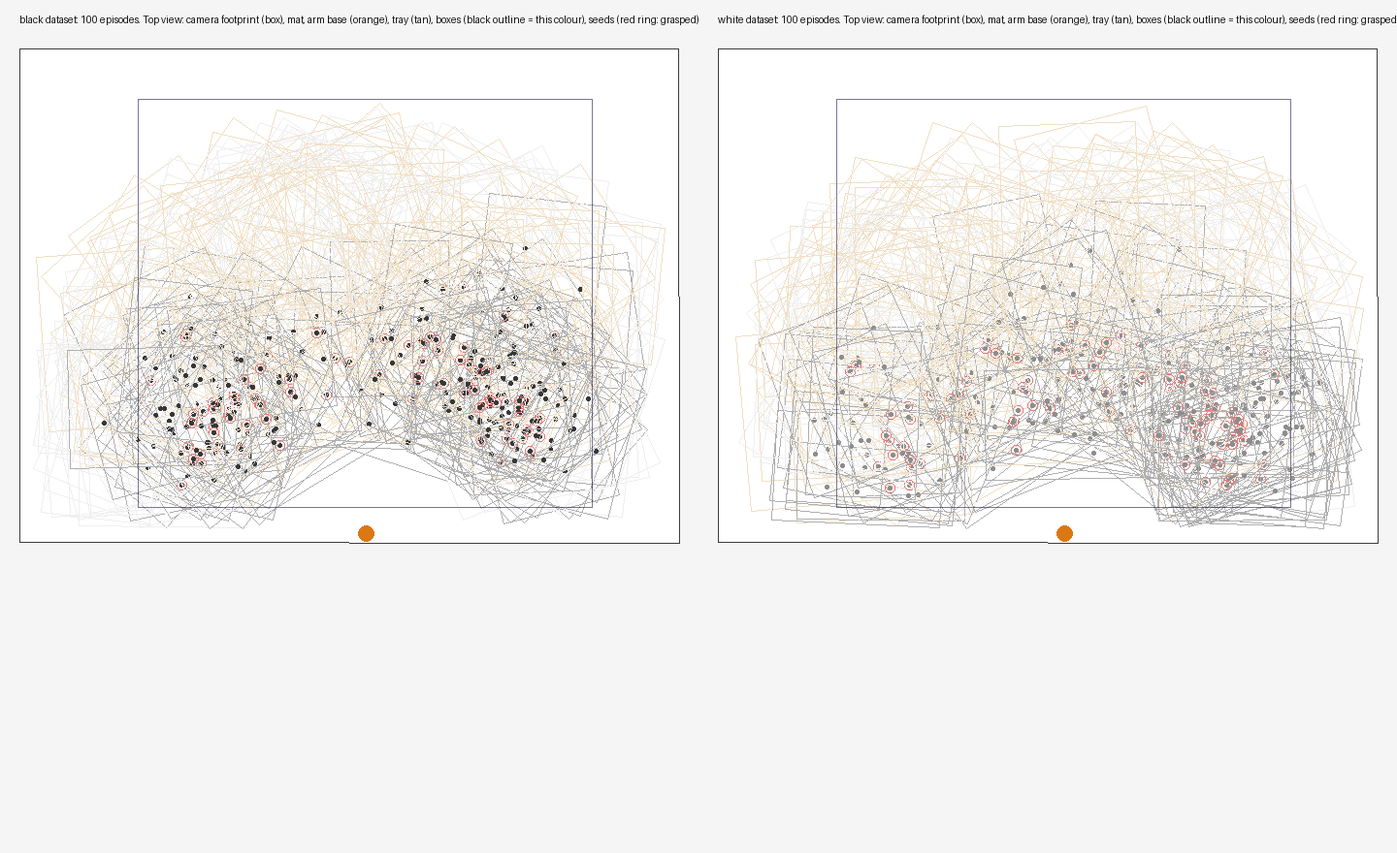
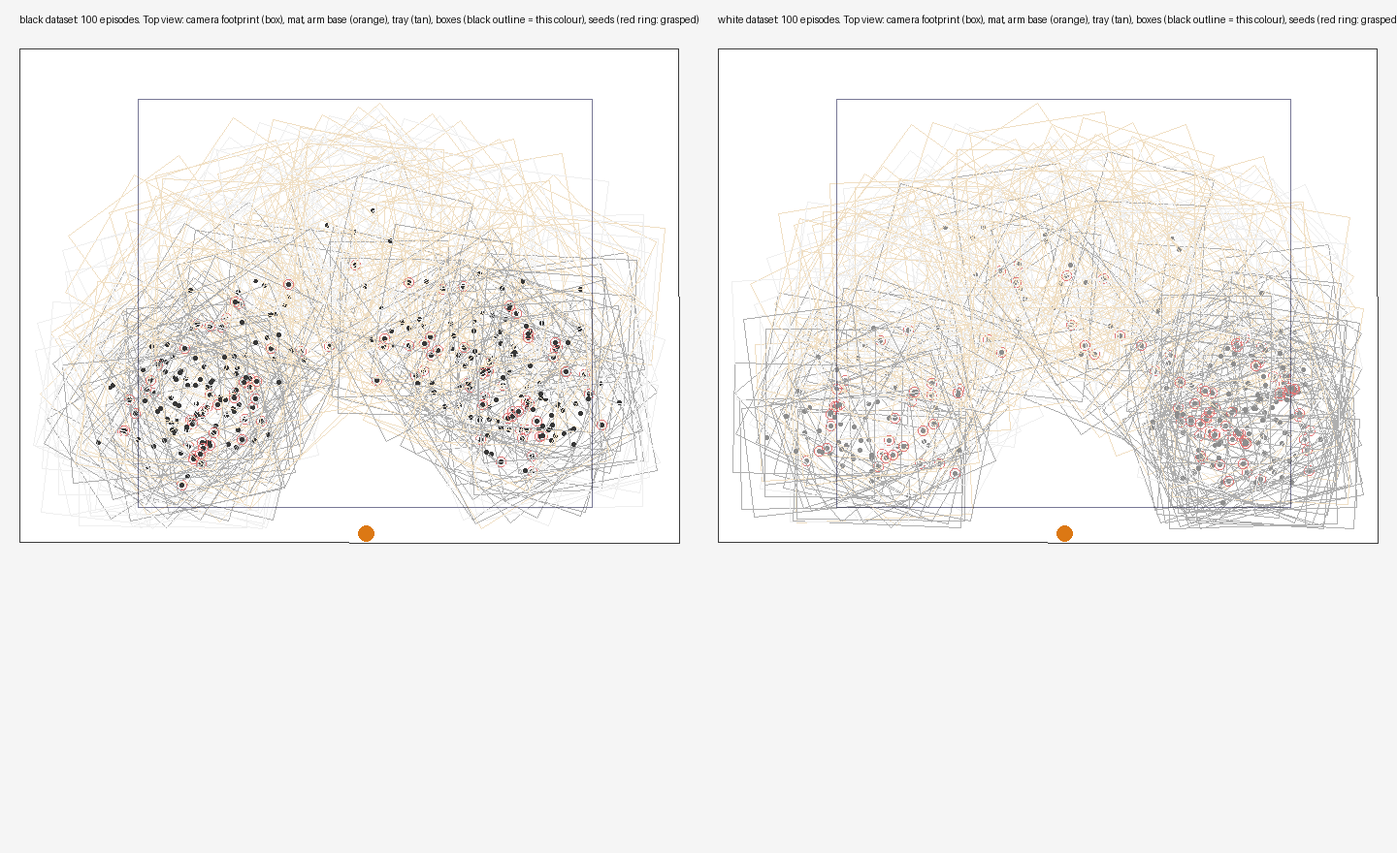
docs(sim): v2 collision-valid datasets, wall audit, previews; T4b done

Changed region(s): [[0.5312, 0.1227, 0.9688, 0.6136], [0.0312, 0.1227, 0.4688, 0.6136]]

diff --git a/sim/make_dataset.py b/sim/make_dataset.py
@@ -996,6 +996,28 @@ def make_contact_sheet(roots: dict[str, Path], out: Path, episodes: int = 3) -> 
     imageio.imwrite(str(out), np.vstack(rows))
 
 
+def export_videos(root: Path, repo_id: str, episodes: int, out_dir: Path, prefix: str) -> list[Path]:
+    """mp4 (30 fps) of the first `episodes` episodes of a local dataset: top camera left, wrist camera right."""
+    import imageio.v2 as imageio
+    from lerobot.datasets.lerobot_dataset import LeRobotDataset
+
+    def hwc(t):
+        return (t.permute(1, 2, 0).numpy() * 255).round().astype(np.uint8)
+
+    ds = LeRobotDataset(repo_id, root=root)
+    out_dir.mkdir(parents=True, exist_ok=True)
+    paths = []
+    for ep in range(min(episodes, ds.meta.total_episodes)):
+        lo, hi = int(ds.meta.episodes["dataset_from_index"][ep]), int(ds.meta.episodes["dataset_to_index"][ep])
+        path = out_dir / f"{prefix}_ep{ep:02d}.mp4"
+        with imageio.get_writer(str(path), fps=FPS, codec="libx264", macro_block_size=1) as w:
+            for i in range(lo, hi):
+                item = ds[i]
+                w.append_data(np.hstack([hwc(item["observation.images.top"]), hwc(item["observation.images.wrist"])]))
+        paths.append(path)
+    return paths
+
+
 def main() -> None:
     ap = argparse.ArgumentParser(description=__doc__.split("\n")[0])
     ap.add_argument("--color", choices=["black", "white"], default=None)
@@ -1004,12 +1026,20 @@ def main() -> None:
     ap.add_argument("--out", default=None, help="dataset folder (default sim/out/datasets/smartseed-sim-grasp-<colour>-v2)")
     ap.add_argument("--coverage", default=None, metavar="PNG", help="only draw the placement coverage plot of the "
                     "black and white datasets under sim/out/datasets (from their logs) and exit")
+    ap.add_argument("--videos", default=None, metavar="DIR", help="only write DIR/<colour>_epNN.mp4 (top | wrist) of the "
+                    "first 5 episodes of the black and white datasets under sim/out/datasets and exit")
     ap.add_argument("--push-repo", default=None, help="Hub dataset repo to upload to when done (existing HF login)")
     args = ap.parse_args()
     if args.coverage:
         base = ROOT / "sim" / "out" / "datasets"
         coverage_plot({c: logged_scenes(_read_log(base / dataset_name(c))) for c in ("black", "white")},
                       Path(args.coverage))
+        return
+    if args.videos:
+        base = ROOT / "sim" / "out" / "datasets"
+        for c in ("black", "white"):
+            for path in export_videos(base / dataset_name(c), f"{HF_USER}/{dataset_name(c)}", 5, Path(args.videos), c):
+                print(path)
         return
     if not args.color:
         ap.error("--color is required")

diff --git a/backend/tests/test_sim_dataset.py b/backend/tests/test_sim_dataset.py
@@ -562,3 +562,15 @@ def test_the_wall_audit_flags_a_pass_through_plan_and_passes_a_planned_episode(k
     audit = audit_walls.audit_episode(good, kin, plan=(actions, marks))
     assert audit.report.valid and audit.report.contact_steps == 0 and audit.lifted
     assert audit.grasp_penetration_m == audit.start_penetration_m == 0.0
+
+
+def test_the_first_episodes_of_a_dataset_export_as_side_by_side_mp4(tmp_path):
+    import imageio.v2 as imageio
+
+    root = tmp_path / "ds"
+    md.build_dataset(root, "black", episodes=3, seed=0, rollout=fake_rollout(6), repo_id="local/vid")
+    out = tmp_path / "videos"
+    paths = md.export_videos(root, "local/vid", episodes=2, out_dir=out, prefix="black")
+    assert [p.name for p in paths] == ["black_ep00.mp4", "black_ep01.mp4"]
+    frames = imageio.mimread(str(paths[0]), memtest=False)
+    assert len(frames) == 6 and frames[0].shape[1] == 2 * IMAGE_SHAPE[1] and frames[0].shape[0] == IMAGE_SHAPE[0]

diff --git a/sim/README.md b/sim/README.md
@@ -31,6 +31,8 @@ the executor's own 30 Hz sleeps make plans run in real time. Torque off holds th
 | `replay.py` | replays the episode, prints residuals, writes `out/replay_overlay.png` |
 | `run_policy.py` | closed-loop real-trained ACT in the twin: obs like `act.py`, success = seed lifted > 3 cm, mp4 + PNG strip per policy |
 | `grasp_test.py` | scripted IK grasp by contact physics, N jittered trials per colour, mp4 + PNG strip of a success |
+| `collision.py` | wall pass-through detector: per physics step, arm-geom vs box/tray-wall contacts (max penetration, max force, count); a `geometry` mode for scenes whose jaws did not collide (v1) |
+| `audit_walls.py`, `wall_check.py` | replay the kept episodes of a generation log and measure wall overlap (the v1 audit); the v1-vs-v2 close-up `docs/media/sim-wall-check.png` |
 | `make_dataset.py` | scripted demos with randomised scenes -> LeRobotDatasets in the real schema, Hub push, previews (see "Generating sim datasets") |
 
 ## Measured, fitted, estimated
@@ -71,8 +73,8 @@ Real data (d1-clean 96 episodes, d2-clean 91): the follower reads about 6.1 clos
 the MJCF joint stop (g = 6.0) is a hard stop, not jaw contact, and the pads are 10.9 mm apart at the tip there.
 A 12-13 mm seed therefore holds the jaw off the stop by 0.9-1.4 units, with no weld or attach.
 
-- Two fingertip pad boxes carry all jaw-seed contact (`sim/assets/README.md`, change 4); the moving-jaw hull no longer
-  collides (its nib dragged the box floor). Box floors are 1.5 mm cardboard, so a seed centre sits at the measured tool z.
+- Two fingertip pad boxes carry all jaw-seed contact (`sim/assets/README.md`, change 4); the moving-jaw hull does not
+  touch seeds or floors (its nib dragged the box floor) but, since T4b, it does hit walls. Box floors are 1.5 mm cardboard, so a seed centre sits at the measured tool z.
 - Gripper servo: kp 3, kv 0.3, force limit 0.15 N m. A stiff, strong servo squeezes a light seed through the pads, a
   weak one cannot close, a lightly damped one rings.
 - Seeds: friction 1.2, condim 4, mass 1 g, radii 6.8 / 7.4 mm (ESTIMATED from the readings and from the wrist frames).
@@ -89,8 +91,68 @@ Results (`backend/.venv/bin/python sim/grasp_test.py`, seed 2 of each box, +-3 m
 | white | 100 | 100 | 49.8 mm | under 1 mm | 7.44 (7.37) |
 
 +-5 mm error: 40/40 per colour. Other seeds, 20 trials: black 0, 1 20/20, black 3 0/20; white 0, 1 20/20, white 3 19/20.
+T4b (solid walls), same 20 trials, +-3 mm, `grasp_test.py --index N`, before = v1 checkout, after = this one:
+
+| seed | black before / after | white before / after |
+|---|---|---|
+| 0 | 20/20 / **0/20** | 20/20 / 20/20 |
+| 1 | 20/20 / 20/20 | 20/20 / 20/20 |
+| 2 (the 100-trial rows above) | 20/20 / 20/20 | 20/20 / 20/20 |
+| 3 | 0/20 / 0/20 | 19/20 / 19/20 |
+
+Black seed 0 is the one change: its nominal spot is 13 mm from the box wall, no jaw axis clears it (the closest
+passes 0.4 mm into it) and v1 only grasped it by flying the open jaw through the wall. The trial now prints the wall
+penetration and force of every run; a grasp with no wall contact is asserted for seed 2 of both colours.
+
 Replay of the recorded actions of episode 0 (black seed 0): the seed is lifted and carried off with the arm (sim
 reading 6.7-6.9 against 7.1-7.2 recorded). Strips: `docs/media/sim-grasp-black.png`, `sim-grasp-white.png`.
+
+## Collision model (T4b)
+
+The v1 demos had the gripper pass through seed-box walls: the moving-jaw hull had `contype="0"` and the pads only
+touched seeds, so only the fixed jaw and the arm links ever hit a wall, and (see "Moved walls" below) not even those
+once a box had been moved. v2 gives walls their own collision bit:
+
+| Geoms | contype | conaffinity | Collide with |
+|---|---|---|---|
+| walls and dividers of the boxes and the tray (class `wall`) | 2 | 19 (1+2+16) | the arm hulls, both jaws, seeds; stiff (`solref 0.004`, `priority 1`: their contact parameters win over the arm's soft defaults) |
+| fixed-jaw hull, wrist, links (`collision` class) | 1 | 0 | walls and floors, not seeds, not each other |
+| moving-jaw hull | 16 | 0 | walls only |
+| fingertip pads | 24 (8+16) | 0 | seeds (bit 8) and walls (bit 16), not floors |
+| box and tray floors (`env`) | 2 | 3 | the arm hulls, seeds |
+| table, paper, mat (`ground`) | 4 | 2 | seeds only (the arm passes through: the arm rests its jaws on the table at `home`) |
+| seeds | 2 | 10 | pads, walls, floors, ground, seeds |
+
+So every jaw geom (fixed hull, moving hull, both pads) and every other arm geom stops at every box and tray wall,
+rims included (the rim is the top face of the wall box). The floors, mat and table stay non-solid for the jaws: the
+moving hull's nib dragged on the 1.5 mm box floor (T2b) and the pads and the home pose sit at or below those surfaces.
+A jaw driven 4 cm through a box wall is stopped within 0.4 mm (30-40 N of servo push, test
+`test_a_tool_pushed_through_a_box_wall_is_stopped_by_it`). The moving hull is MuJoCo's convex hull of an L-shaped part,
+so it is a conservative proxy: it can touch a wall slightly before the real jaw would.
+
+**Moved walls.** The generator moves and turns the boxes and the tray per episode. MuJoCo builds the static broad phase
+when the model is compiled, so editing `geom_pos` of a static geom at run time left its collisions at the nominal spot
+(a pose with the tool 7 mm inside a moved wall produced no contact at all). Each movable object is now its own body
+(`tray`, `box_white`, `box_black`, geoms relative to it) and `apply_scene` sets `body_pos` / `body_quat`, which the
+broad phase honours (`test_walls_that_the_scene_moved_still_collide_with_the_arm`). That bug also means the v1 physics
+had no wall collisions at all for moved boxes.
+
+**Validity** (`collision.WallMonitor`, a step hook on `SimRobot`): after every physics step it reads the contact list for
+arm-geom vs wall-geom pairs (all links, both hulls, both pads; every box and tray wall) and records the deepest `-dist`,
+the largest normal force (`mj_contactForce`) and the number of steps in contact. An episode is kept only if the seed
+was lifted over 3 cm and is in the jaws at the end AND the deepest wall penetration is at most 1 mm AND no wall
+contact pushed with more than 2 N. A `geometry` mode asks `mj_geomDistance` for the signed distance of every arm geom
+to every wall geom after each control step regardless of the collision bits; `audit_walls.py` uses it on the v1 scenes.
+
+**Planner.** `grasp_test.grasp_candidates` lists the jaw axes (radial, plus the 24 board axes turned with the box) whose
+open-jaw footprint clears the walls and the neighbouring seeds by more than 5 mm, smallest wrist roll first.
+`make_dataset.plan_actions` plans the whole episode for the first axis, then `check_path` puts the arm at every commanded
+pose (forward kinematics, no physics), measures its distance to every wall of that scene and requires 5 mm from the
+descent to the end of the lift and at the still poses (start and fold), and 2 cm for the moving transit and retract
+(or no closer than the still poses already were: a box beside the base puts the folded arm within 2 cm of its wall
+before any motion). The hover at tool height 7 cm and the vertical descent keep the jaw above the 3.5 cm walls until it is
+over the seed. If an axis fails, the next one is tried; if none passes the scene is redrawn (`NoFit`, a placement
+rejection counted separately from out-of-reach ones).
 
 ## Running the real ACT in sim (T3)
 
@@ -129,14 +191,21 @@ no seed highlights, different wrist-camera exposure and mount; the real wrist vi
 isolate it from the physics, seed layout (the real box held 2 white seeds, the twin has 4) or the missing inference
 latency. One episode in 40 is not a measured rate; the lone success is a genuine grasp-and-lift that did not hold.
 
-## Generating sim datasets (T4)
+## Generating sim datasets (T4, collision-valid since T4b)
 
 ```bash
-backend/.venv/bin/python sim/make_dataset.py --color black --episodes 100 --seed 0 \
-    --out sim/out/datasets/smartseed-sim-grasp-black --push-repo RafaelJaime/smartseed-sim-grasp-black
-backend/.venv/bin/python sim/make_dataset.py --color white --episodes 100 --seed 0 --push-repo RafaelJaime/smartseed-sim-grasp-white
+backend/.venv/bin/python sim/make_dataset.py --color black --episodes 100 --seed 0 --push-repo RafaelJaime/smartseed-sim-grasp-black-v2
+backend/.venv/bin/python sim/make_dataset.py --color white --episodes 100 --seed 0 --push-repo RafaelJaime/smartseed-sim-grasp-white-v2
 backend/.venv/bin/python sim/make_dataset.py --coverage docs/media/sim-dataset-coverage.png   # redraw from the logs
+backend/.venv/bin/python sim/make_dataset.py --videos sim/out/v2_videos                         # mp4 of the first 5 episodes per colour
 ```
+
+Datasets go to `sim/out/datasets/smartseed-sim-grasp-<colour>-v2` (a stopped run resumes; running it again with
+`--push-repo` uploads). **v2 supersedes v1** (`smartseed-sim-grasp-black` / `-white`, still on the Hub): v1 episodes let the
+gripper pass through box walls (see "Collision model (T4b)"; replaying the 100 kept episodes of each v1 dataset with
+`audit_walls.py`, **24 % of the black and 37 % of the white ones** have an arm geom more than 1 mm inside a wall, 19 % / 26 %
+more than 5 mm, up to 22 / 25 mm; 4 % / 9 % of them in the grasp itself, the rest with the folded arm or the transit
+inside a wall of a box placed near the base). Train on v2.
 
 Scripted demonstrations recorded with `LeRobotDataset.create` / `add_frame` / `save_episode` (lerobot at the pinned
 commit `e595b79`; `lerobot[dataset]` is now part of the backend dependencies). The schema is the real one, key for key:
@@ -173,22 +242,34 @@ jaws about horizontal (pitch up to 15 deg; a tilted wrist puts the seed outside 
 (the MJCF wrist flex stops at +-95). The boxes' turn reaches the physics: MuJoCo ignores a runtime `geom_quat` on geoms
 whose compiled frame was the identity unless `geom_sameframe` is cleared (a test reads `geom_xmat`).
 
-**Results** (seed 0):
+**Results** (seed 0, generator at `ba857d5`+):
 
-| | black (`smartseed-sim-grasp-black`) | white (`smartseed-sim-grasp-white`) |
+| | black (`smartseed-sim-grasp-black-v2`) | white (`smartseed-sim-grasp-white-v2`) |
 |---|---|---|
-| Kept episodes / attempts | 100 / 132 (generator success 75.8 %) | 100 / 136 (73.5 %) |
-| Frames | 29,497 | 29,502 |
-| Placements drawn / reachable | geometry accepted 1.95 % of drawn object placements; the planner could grasp into 29.0 % of the geometrically valid scenes (323 redraws); 0.57 % of drawn object placements end in a kept scene | 1.77 %, 28.5 % (342 redraws), 0.50 % |
-| Seed grasped (index 0-3) | 22 / 23 / 28 / 27 | 27 / 31 / 23 / 19 |
-| Generation time | about 45 min on the M5 (two colours in parallel, no GPU) | |
+| Attempts / kept episodes | 114 / 100 (generator success 87.7 %) | 112 / 100 (89.3 %) |
+| Lifted but rejected by the wall monitor | 0 | 0 |
+| Scenes redrawn before simulating (placement rejections) | 543: 204 no jaw yaw / path clears the walls, 339 out of reach | 666: 269 no fit, 397 out of reach |
+| Failed attempts | 14, the seed was not lifted (missed the pads, open-loop) | 12, same |
+| Wall contact in the kept episodes | 0 physics steps, max penetration 0.0 mm | 0 steps, 0.0 mm |
+| Frames | 29,503 | 29,508 |
+| Seed grasped (index 0-3) | 31 / 18 / 30 / 21 | 17 / 29 / 29 / 25 |
+| Generation time | about 35 min on the M5 (two colours in parallel, no GPU) | |
 
-The 24-26 % of attempts that fail after a reachable placement mostly drop the seed during the fold-back or miss it (the arm lags
-the open-loop command, seeds close to a wall). Hub: https://huggingface.co/datasets/RafaelJaime/smartseed-sim-grasp-black and
-https://huggingface.co/datasets/RafaelJaime/smartseed-sim-grasp-white (public, tag `BraboRobots`, in the collection
-`smartseed-so-101-act-seed-sowing`). Loading them back from the Hub gives the same feature dict as the real `info.json`.
-Previews: `docs/media/sim-dataset-preview.png` (episodes 0, 50, 99 per colour: top over wrist at the first, middle and last
-frame) and `docs/media/sim-dataset-coverage.png` (every kept scene drawn on the top view).
+The monitor rejected nothing because the planner's swept-path check already redraws every scene where an arm geom would
+touch a wall: replaying the v1 scenes that the v1 audit flagged (more than 1 mm), the v2 planner redraws 23 of the 24 black
+and 35 of the 37 white ones (the other three get a different jaw yaw). `audit_walls.py` run on the v2 logs (geometry mode,
+independent of the collision bits) agrees: 0 of 200 episodes overlap a wall. Yield is lower than v1 (the planner now accepts 17 % / 14 % of the geometrically valid scenes, v1 29 % / 28.5 %) and biased to scenes with room around the seed: the grasped seeds in
+`docs/media/sim-dataset-coverage.png` cluster nearer the arm and away from walls than the v1 ones.
+
+Hub: https://huggingface.co/datasets/RafaelJaime/smartseed-sim-grasp-black-v2 and
+https://huggingface.co/datasets/RafaelJaime/smartseed-sim-grasp-white-v2 (public, tag `BraboRobots`, in the collection
+`smartseed-so-101-act-seed-sowing`, which no longer lists the v1 repos). Loading them back from the Hub gives the same feature dict
+as the real `info.json`, 100 episodes each. Previews: `docs/media/sim-dataset-preview.png` (episodes 0, 50, 99 per colour: top over
+wrist at the first, middle and last frame), `docs/media/sim-dataset-coverage.png` (every kept scene on the top view) and
+`docs/media/sim-wall-check.png` (episode 0 of v1: the same commands in the v1 and the v2 twin).
+
+v1 results for reference (seed 0 of the v1 generator, no wall collisions for the jaws): 132 / 136 attempts for 100 kept
+(75.8 % / 73.5 %), 29,497 / 29,502 frames.
 
 Limits: the demos only show scenes the scripted planner can solve (the placements and seeds it cannot reach are never
 recorded, so the data under-represents the far corners of the table); the scene is the twin, see "What is weak"; the real
@@ -196,6 +277,14 @@ white-seed episodes command the gripper to ~6.7 at the end, the sim uses 4.2-5.0
 
 ## What is weak
 
+- **Walls and the jaw proxy.** The moving-jaw hull is a convex hull, larger than the real jaw, and the box and tray walls are
+  estimated from the top frame (a centimetre or so): a grasp the real arm manages with the wall a few millimetres from the
+  seed can be refused here. Nominal black seed 0 (13 mm from a wall) was grasped 20/20 in v1 only because the open jaw went
+  through the wall; with solid walls no jaw axis clears it and `grasp_test.py` gets 0/20 on it (table above).
+- **Floors, mat and table are not solid for the jaws** (see "Collision model"): a jaw pressed into the floor is not detected.
+- **v2 data is biased** to scenes with room for the open jaws (17 % / 14 % of the geometrically valid scenes survive the planner, v1 29 % / 28.5 %), so seeds
+  hard against a wall or in a corner are never demonstrated; the arm itself is only checked against walls, not against seeds
+  other than the grasped one (the footprint test keeps neighbours 10 mm out of the jaws).
 - **Grasping** is limited to what `grasp_test.py` covers: vertical approach, seeds clear of walls and neighbours. Black seed 3 (near the box corner) fails 0/20 (the spun-wrist IK does not reach it), white seed 3 19/20. Pad friction, squeeze torque and seed size are tuned to the real readings, not measured.
 - **Real calibration vs the camera.** The four clicks in `backend/data/calibration.json` miss the fitted camera by
   28-60 px (several cm) at any single tool height; the best single height is 0.12 m. Likely lens distortion (the

diff --git a/odd/tasks/sim-replica.md b/odd/tasks/sim-replica.md
@@ -40,11 +40,27 @@ Strict TDD (session config). Runner: `cd backend && uv run pytest` (via `~/.clau
       https://huggingface.co/datasets/RafaelJaime/smartseed-sim-grasp-black and `-white` (public, BraboRobots, in the HF
       collection); features identical to real d1/d2 `info.json` (checked from the Hub), `docs/media/sim-dataset-preview.png`,
       `docs/media/sim-dataset-coverage.png`. Commits: 5e748db, 5472152 and the docs commit after it.
-- [ ] T4b Collision-correct demos (reopens T4): the user saw the jaw pass through a seed-box wall (episode 0). Cause:
+- [x] T4b Collision-correct demos (reopens T4): the user saw the jaw pass through a seed-box wall (episode 0). Cause:
       the moving jaw hull has `contype="0"` and the pads only touch seeds, and the planner never checks walls. Make every
       jaw geom collide with box/tray walls (not the floors), make the planner choose a jaw yaw/approach that clears walls
       or redraw the scene, and discard any episode in which an arm geom penetrates a wall; regenerate both datasets as
       `-v2` Hub repos (route: delegated)
+      Evidence: RED first (ImportError on `sim.collision`; 7 physics tests failed on the old scene; a pose with the tool
+      inside a moved wall gave no contact). Found on the way: MuJoCo's static broad phase ignores runtime `geom_pos`
+      edits, so in v1 moved boxes/tray had no wall collisions at all; boxes and tray are now bodies moved via `body_pos`.
+      Walls get their own bit (`wall` class, conaffinity 19), jaw hull contype 16, pads 24: every jaw geom stops at walls
+      (30-40 N push, 0.4 mm penetration), floors unchanged. `sim/collision.py` monitors arm-wall contacts per physics step
+      (valid = max penetration <= 1 mm and force <= 2 N). Planner: 25 jaw axes, swept forward-kinematics check of the whole
+      motion (5 mm in the grasp, 2 cm in transit), `NoFit` redraws the scene. `sim/audit_walls.py` on the v1 datasets: 24 % of
+      the black and 37 % of the white kept episodes have an arm geom > 1 mm in a wall (max 22 / 25 mm; 4 % / 9 % in the grasp, the
+      rest the folded arm or the transit); the v2 planner redraws 58 of those 61 scenes. v2: black 114 attempts / 100 kept,
+      white 112 / 100; 0 collision rejections, 543 / 666 placement rejections (204 / 269 no fit); audit of the 200 kept: 0 overlaps.
+      Hub: https://huggingface.co/datasets/RafaelJaime/smartseed-sim-grasp-black-v2 and `-white-v2` (public, BraboRobots, features
+      identical to real `info.json`, 100 episodes, 29,503 / 29,508 frames; reloaded from the Hub); the HF collection now lists v2
+      and not v1 (v1 repos kept, superseded). `grasp_test.py`: seed 2 20/20 both colours and every other seed unchanged except
+      black seed 0 20/20 -> 0/20 (13 mm from a wall: v1 flew the jaw through it). `uv run pytest` 380 passed (was 350).
+      Media: `docs/media/sim-wall-check.png`, regenerated `sim-dataset-preview.png`, `sim-dataset-coverage.png`; mp4 of 5 episodes per
+      colour in `sim/out/v2_videos/` (gitignored).
 - [x] T4c Brev hardening after the 2026-10-27 failed run (box idle ~2.5 h): fix root-owned `~/.cache` on hyperstack,
       watcher deletes the box on setup failure or stalled training, check the Brev session before delete (route: inline)
       Evidence: `scripts/brev/launch_two.sh` (chown cache before the token, upload check, tmux check), `train_two.sh`
@@ -53,10 +69,11 @@ Strict TDD (session config). Runner: `cd backend && uv run pytest` (via `~/.clau
       logs to ~/brev-logs). Watcher paths exercised with fake ssh/brev: setup failed, logged out, run failed, no step,
       stalled -> all delete except logged out (exit 3). shellcheck clean on the three scripts.
 - [ ] T5 Train ACT on sim demos + `sim/eval.py` success metric (seed lifted > 3 cm, lands in target hole) (route: delegated)
-      To train on Brev (do not start it from this task): upload with `ssh <host> 'cat > ~/train_pair.sh' < scripts/brev/train_pair.sh`
-      (not scp), then per colour `ssh <host> 'chmod +x ~/train_pair.sh && tmux new -d -s train "~/train_pair.sh RafaelJaime/smartseed-sim-grasp-black sim-black"'`
-      (and `.../smartseed-sim-grasp-white sim-white`); it trains `act-sim-black-c100` / `-c50` (40k steps, batch 32, one per GPU)
-      and pushes them under `RafaelJaime`; check `tmux ls; tail -5 ~/setup.log`, then `scripts/brev/watch_one.sh <host> RafaelJaime/act-sim-black-c100 40000`.
+      To train on Brev (do not start it from this task), use the `-v2` datasets (v1 had wall pass-through) and
+      `scripts/brev/train_two.sh` on a 2-GPU box, one ACT (chunk 100, 40k steps, batch 32) per GPU: `scripts/brev/launch_two.sh <host>
+      RafaelJaime/smartseed-sim-grasp-black-v2 sim-black RafaelJaime/smartseed-sim-grasp-white-v2 sim-white` (it uploads the script with
+      `ssh ... 'cat >'`, not scp, and starts tmux; the models are pushed as `RafaelJaime/act-sim-black` / `act-sim-white`), then
+      `PYTHON=backend/.venv/bin/python scripts/brev/watch_pair.sh <host> RafaelJaime/act-sim-black RafaelJaime/act-sim-white`.
 
 ## Acceptance
 - `SMARTSEED_ROBOT=sim ./scripts/stack.sh` runs the web + executor against the simulated arm.
@@ -72,3 +89,4 @@ Strict TDD (session config). Runner: `cd backend && uv run pytest` (via `~/.clau
 - 2026-10-27: T2b done (pads, servo and seed tuning, `Kinematics.solve(spin_deg)`); details in `sim/README.md`.
 - 2026-10-27: T3 done: real ACT policies run in the twin (1/40 episodes lifted a seed); see `sim/README.md`.
 - 2026-10-27: T4 done: 100 sim episodes per colour on the Hub; see `sim/README.md`, "Generating sim datasets".
+- 2026-10-27: T4b done: jaws collide with walls, wall-aware planner, wall monitor, v2 datasets on the Hub; see `sim/README.md`, "Collision model (T4b)".

diff --git a/README.md b/README.md
@@ -312,8 +312,10 @@ All under <https://huggingface.co/RafaelJaime>, tagged `BraboRobots`. Collection
 |---|---|---|
 | [`smartseed-grasp-d1-clean`](https://huggingface.co/datasets/RafaelJaime/smartseed-grasp-d1-clean) | 96 × 10 s | `smartseed-grasp-d_20261025_002427` without episodes 1, 15, 26, 34 |
 | [`smartseed-grasp-d2-clean`](https://huggingface.co/datasets/RafaelJaime/smartseed-grasp-d2-clean) | 91 × 10 s | `smartseed-grasp-d_20261025_010641` without episodes 0-4, 18, 66, 84, 96 |
-| [`smartseed-sim-grasp-black`](https://huggingface.co/datasets/RafaelJaime/smartseed-sim-grasp-black) | 100 × ~9.8 s (29,497 frames) | **simulated**: scripted demos in the MuJoCo twin, black seeds, randomised scenes, same schema as `d1-clean` (`sim/make_dataset.py`) |
-| [`smartseed-sim-grasp-white`](https://huggingface.co/datasets/RafaelJaime/smartseed-sim-grasp-white) | 100 × ~9.8 s (29,502 frames) | **simulated**: same for white seeds, same schema as `d2-clean` |
+| [`smartseed-sim-grasp-black-v2`](https://huggingface.co/datasets/RafaelJaime/smartseed-sim-grasp-black-v2) | 100 × ~9.8 s (29,503 frames) | **simulated**, collision-valid (no arm geom more than 1 mm inside a wall): scripted demos in the MuJoCo twin, black seeds, randomised scenes, same schema as `d1-clean` (`sim/make_dataset.py`). Use this one |
+| [`smartseed-sim-grasp-black`](https://huggingface.co/datasets/RafaelJaime/smartseed-sim-grasp-black) (v1) | 100 × ~9.8 s | **superseded by v2**: the gripper passes through box walls in 24 % of the episodes; do not train on it |
+| [`smartseed-sim-grasp-white-v2`](https://huggingface.co/datasets/RafaelJaime/smartseed-sim-grasp-white-v2) | 100 × ~9.8 s (29,508 frames) | **simulated**, collision-valid: same for white seeds, same schema as `d2-clean` |
+| [`smartseed-sim-grasp-white`](https://huggingface.co/datasets/RafaelJaime/smartseed-sim-grasp-white) (v1) | 100 × ~9.8 s | **superseded by v2**: wall pass-through in 37 % of the episodes; do not train on it |
 
 ## Run
 

diff --git a/docs/simulation.md b/docs/simulation.md
@@ -95,8 +95,10 @@ and joint conventions, it replaces most of steps 2 and 3 below.
   the seeds, but never close on one: the visual gap is real. Table, videos and the real-vs-sim frame comparison
   (`docs/media/sim-vs-real-obs.png`) are in `sim/README.md`, "Running the real ACT in sim".
 - **B. Sim-trained policy.** **Demos done (T4, `sim/make_dataset.py`):** 100 scripted episodes per colour with
-  randomised box, tray and seed placement, lighting and cameras, on the Hub as `RafaelJaime/smartseed-sim-grasp-black` and
-  `-white` (generator success 76 % / 74 %, details in `sim/README.md`). Training is T5. Original plan: write scripted IK demonstrations (`sim/scripted_demo.py`, using
+  randomised box, tray and seed placement, lighting and cameras, on the Hub as `RafaelJaime/smartseed-sim-grasp-black-v2` and
+  `-white-v2` (T4b: collision-valid, generator success 88 % / 89 %, details in `sim/README.md`; the v1 repos
+  `smartseed-sim-grasp-black` / `-white` are superseded because their episodes let the gripper pass through box walls,
+  24 % / 37 % of them by more than 1 mm). Training is T5. Original plan: write scripted IK demonstrations (`sim/scripted_demo.py`, using
   `Kinematics.solve` against the simulated tool frame), record them as a `LeRobotDataset` with the
   same keys and fps, train ACT with the existing scripts (`lerobot/scripts/20_train_local.sh`, or
   `scripts/brev/train_pair.sh` on a cloud GPU), and evaluate. Metric: a seed is lifted more than
